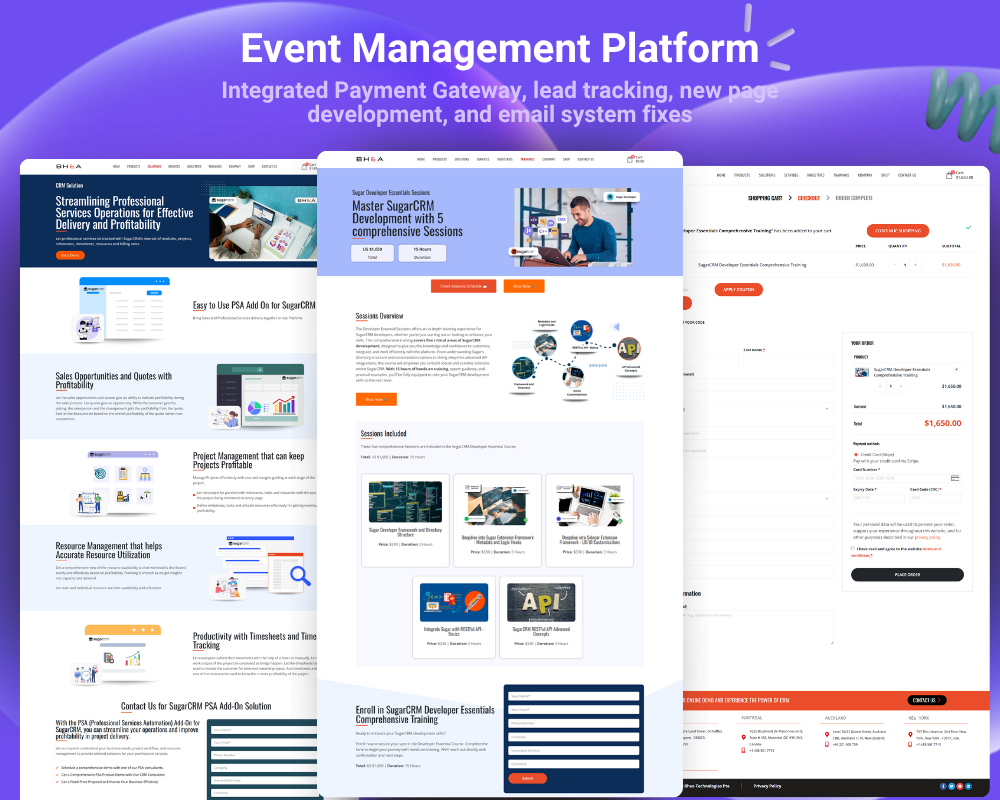
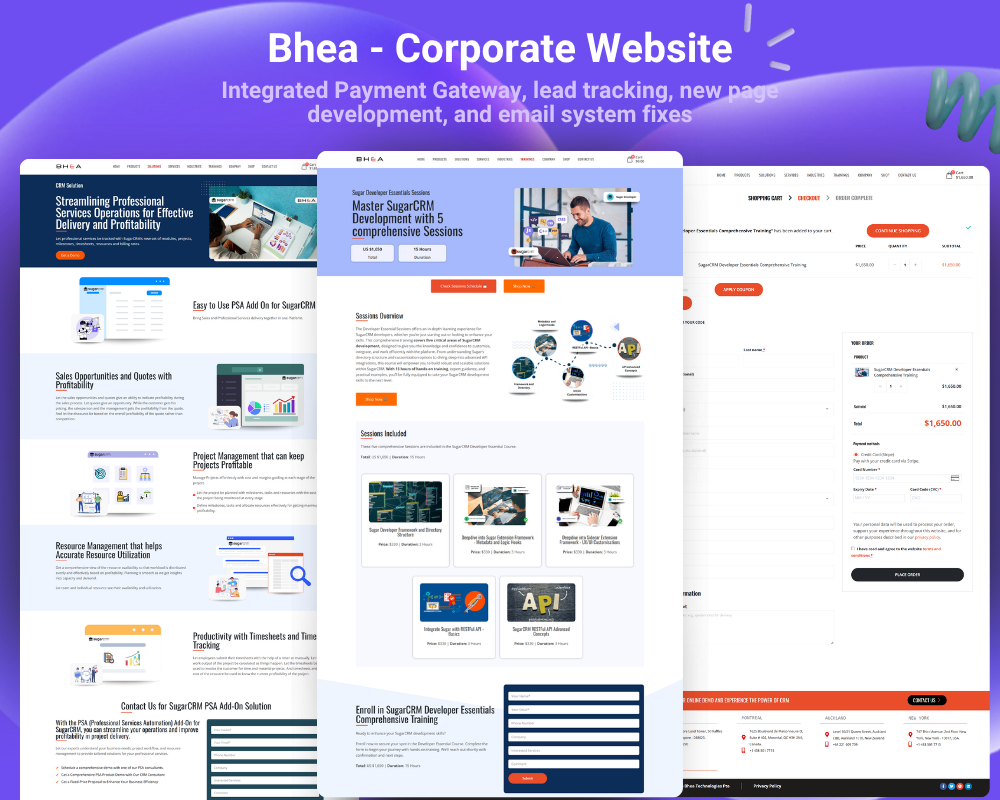
added all projects

Changed region(s): [[0.217, 0.0312, 0.775, 0.0938]]

diff --git a/src/components/project/projectsData.js b/src/components/project/projectsData.js
@@ -20,7 +20,16 @@ import {
   droneUIUX,
   movieUIUX,
   portfolioUIUX,
-  opennet
+  opennet,
+  bethingliving,
+  bheaBlog,
+  bheaIntegration,
+  blissgrow,
+  parichaya,
+  rect82,
+  samosachai,
+  sriraksha,
+  yenrich
 } from "../Image";
 
 // Projects Data for Projects Card
@@ -36,104 +45,94 @@ export const projectsData = [
     languages: ["WordPress", "UI Design", "Event Management"],
   },
   {
-    title: "OpenNets — Event Management Platform",
-    description:
-      "📅Led full design and development, including logo creation and website setup. Built an engaging event-focused experience optimized for clarity and speed.",
+    title: "Bhea - Corporate Management Website",
+    description: 
+      "Handled maintenance tasks such as lead tracking, new page development, email system fixes and payment gateway integration. Improved overall reliability and visual consistency.",
     // codeUrl: "https://github.com/Rayy-007/React-Quizzical-App-by-Khant",
     // websiteURL: "https://react-quizzical-app-khant.netlify.app/",
-    image: opennet,
+    image: bheaIntegration,
+    type: "bhea",
+    languages: ["WordPress", "Maintenance", "Troubleshooting", "Integration"],
+  },
+  {
+    title: "Samosachai - Event Management Website",
+    description:
+      "📅Designed and developed a complete event management website integrating smooth navigation and modern design principles to enhance brand presence.",
+    // codeUrl: "https://github.com/Rayy-007/React-Quizzical-App-by-Khant",
+    // websiteURL: "https://react-quizzical-app-khant.netlify.app/",
+    image: samosachai,
     type: "bhea",
     languages: ["WordPress", "UI Design", "Event Management"],
   },
-  {
-    title: "OpenNets — Event Management Platform",
+    {
+    title: "Bhea - Corporate Blog Management",
     description:
-      "📅Led full design and development, including logo creation and website setup. Built an engaging event-focused experience optimized for clarity and speed.",
+      "Enhanced blog usability and visual hierarchy for better readability and engagement. Managed content flow and styling.",
     // codeUrl: "https://github.com/Rayy-007/React-Quizzical-App-by-Khant",
     // websiteURL: "https://react-quizzical-app-khant.netlify.app/",
-    image: opennet,
+    image: bheaBlog,
     type: "bhea",
-    languages: ["WordPress", "UI Design", "Event Management"],
+    languages: ["WordPress", "Content Management", "UI/UX Enhancement"],
   },
   {
-    title: "OpenNets — Event Management Platform",
+    title: "Rect82 - Education Platform for Girl Child",
     description:
-      "📅Led full design and development, including logo creation and website setup. Built an engaging event-focused experience optimized for clarity and speed.",
+      "📅Designed and developed a meaningful educational charity website aimed at empowering girls. Integrated donation form and overall process.",
     // codeUrl: "https://github.com/Rayy-007/React-Quizzical-App-by-Khant",
     // websiteURL: "https://react-quizzical-app-khant.netlify.app/",
-    image: opennet,
+    image: rect82,
     type: "bhea",
-    languages: ["WordPress", "UI Design", "Event Management"],
+    languages: ["WordPress", "UI Design", "Integration"],
   },
   {
-    title: "OpenNets — Event Management Platform",
+    title: "BlissGrow - E-Commerce Product Website",
     description:
-      "📅Led full design and development, including logo creation and website setup. Built an engaging event-focused experience optimized for clarity and speed.",
+    "Enhanced user experience by improving checkout flow and updating product listings. Focused on creating a smoother, modern shopping experience.",
     // codeUrl: "https://github.com/Rayy-007/React-Quizzical-App-by-Khant",
     // websiteURL: "https://react-quizzical-app-khant.netlify.app/",
-    image: opennet,
+    image: blissgrow,
     type: "bhea",
-    languages: ["WordPress", "UI Design", "Event Management"],
+    languages: ["WordPress", "UI/UX Optimization", "WooCommerce"],
   },
   {
-    title: "OpenNets — Event Management Platform",
+    title: "Yenrich - E-Commerce Platform",
     description:
-      "📅Led full design and development, including logo creation and website setup. Built an engaging event-focused experience optimized for clarity and speed.",
+      "Developed a full-featured e-commerce site from scratch, focusing on user-friendly product navigation and seamless checkout experience.",
     // codeUrl: "https://github.com/Rayy-007/React-Quizzical-App-by-Khant",
     // websiteURL: "https://react-quizzical-app-khant.netlify.app/",
-    image: opennet,
+    image: yenrich,
     type: "bhea",
-    languages: ["WordPress", "UI Design", "Event Management"],
+    languages: ["WordPress", "UI Design", "WooCommerce"],
   },
   {
-    title: "OpenNets — Event Management Platform",
+    title: "Sriraksha - Construction Company Website",
     description:
-      "📅Led full design and development, including logo creation and website setup. Built an engaging event-focused experience optimized for clarity and speed.",
+      "Updated design components to modernize look and feel while maintaining brand consistency. Integrated event management system.",
     // codeUrl: "https://github.com/Rayy-007/React-Quizzical-App-by-Khant",
     // websiteURL: "https://react-quizzical-app-khant.netlify.app/",
-    image: opennet,
+    image: sriraksha,
     type: "bhea",
-    languages: ["WordPress", "UI Design", "Event Management"],
+    languages: ["WordPress", "Maintenance", "Event Management"],
   },
   {
-    title: "OpenNets — Event Management Platform",
+    title: "Parichaya - Dating Platform",
     description:
-      "📅Led full design and development, including logo creation and website setup. Built an engaging event-focused experience optimized for clarity and speed.",
+      "Implemented secure Login/Register and user management features for a dating web application.",
     // codeUrl: "https://github.com/Rayy-007/React-Quizzical-App-by-Khant",
     // websiteURL: "https://react-quizzical-app-khant.netlify.app/",
-    image: opennet,
+    image: parichaya,
     type: "bhea",
-    languages: ["WordPress", "UI Design", "Event Management"],
+    languages: ["WordPress", "User Authentication", "User Management"],
   },
   {
-    title: "OpenNets — Event Management Platform",
+    title: "BethLiving - Interior Blog Page Development",
     description:
-      "📅Led full design and development, including logo creation and website setup. Built an engaging event-focused experience optimized for clarity and speed.",
+      "Designed and implemented a complete blog system to support marketing content for Beth Living’s main website.",
     // codeUrl: "https://github.com/Rayy-007/React-Quizzical-App-by-Khant",
     // websiteURL: "https://react-quizzical-app-khant.netlify.app/",
-    image: opennet,
+    image: bethingliving,
     type: "bhea",
     languages: ["WordPress", "UI Design", "Event Management"],
-  },
-  {
-    title: "OpenNets — Event Management Platform",
-    description:
-      "📅Led full design and development, including logo creation and website setup. Built an engaging event-focused experience optimized for clarity and speed.",
-    // codeUrl: "https://github.com/Rayy-007/React-Quizzical-App-by-Khant",
-    // websiteURL: "https://react-quizzical-app-khant.netlify.app/",
-    image: opennet,
-    type: "bhea",
-    languages: ["WordPress", "UI Design", "Event Management"],
-  },
-  {
-    title: "React Quizzical App",
-    description:
-      "🤹Quizzical App is a dynamic React application that challenges users with a variety of quizzes sourced from an external quiz API.",
-    codeUrl: "https://github.com/Rayy-007/React-Quizzical-App-by-Khant",
-    websiteURL: "https://react-quizzical-app-khant.netlify.app/",
-    image: quizzical,
-    type: "app",
-    languages: ["React", "QuizAPI"],
   },
   {
     title: "NextJs Ecommerce",

diff --git a/src/components/Image.js b/src/components/Image.js
@@ -25,7 +25,7 @@ import bheaBlog from "../assets/projects/bhea/bhea-blog-min-khant-portfolio.png"
 import bheaIntegration from "../assets/projects/bhea/bhea-integration-min-khant-portfolio.png";
 import blissgrow from "../assets/projects/bhea/blissgrow-min-khant-portfolio.png";
 import parichaya from "../assets/projects/bhea/parichaya-min-khant-portfolio.png";
-import opreact82ennet from "../assets/projects/bhea/react82-min-khant-portfolio.png";
+import rect82 from "../assets/projects/bhea/rect82-min-khant-portfolio.png";
 import samosachai from "../assets/projects/bhea/samosachai-min-khant-portfolio.png";
 import sriraksha from "../assets/projects/bhea/sriraksha-min-khant-portfolio.png";
 import yenrich from "../assets/projects/bhea/yenrich-min-khant-portfolio.png";
@@ -110,7 +110,7 @@ export {
   bheaIntegration,
   blissgrow,
   parichaya,
-  opreact82ennet,
+  rect82,
   samosachai,
   sriraksha,
   yenrich
